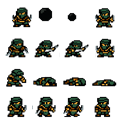
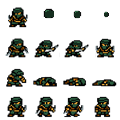
solucionado infiltrado y asesino de elite graficos en la arena, se hacen bolita y no vuelven a su estado hasta dejar de pulsar tecla de movimiento

diff --git a/morosycristianos_archon/src/coordinador/sources/dibujapersonajes.cpp b/morosycristianos_archon/src/coordinador/sources/dibujapersonajes.cpp
@@ -126,12 +126,31 @@ void dibujapersonajes::dibujar(TipoPersonaje tipo, float x, float y, float size,
         }
 
         else {
-            // Bucle frames 0-2 para andar
-            if (currentFrame < baseFrame || currentFrame >= baseFrame + 3)
-                _sprites[t][indice]->setState(0, false);
-            else 
-                _sprites[t][indice]->pause(false);//vuelve a animar
+            if (tipo == TipoPersonaje::INFILTRADO || tipo == TipoPersonaje::ASESINO_DE_ELITE) {
+                //para infiltrado /asesino de élite: se queda congelado en el frame de la bolita chiquita
+                 // Magia para el Infiltrado/Asesino
+                if (currentFrame < baseFrame || currentFrame > baseFrame + 3) {
+                    // Si viene de otro estado, empieza la animación de convertirse en humo
+                    _sprites[t][indice]->setState(baseFrame, false);
+                }
+                else if (currentFrame == baseFrame + 3) {
+                    // Si ya ha llegado a la bolita (cuarto frame), ¡lo congelamos!
+                    _sprites[t][indice]->pause(true);
+                }
+                else {
+                    // Si está en el frame 0, 1 o 2, dejamos que siga reproduciéndose hacia la bolita
+                    _sprites[t][indice]->pause(false);
+                }
 
+
+            }
+            else {
+                // Bucle frames 0-3 para andar para personajes normales
+                if (currentFrame < baseFrame || currentFrame >= baseFrame + 3)
+                    _sprites[t][indice]->setState(0, false);
+                else
+                    _sprites[t][indice]->pause(false);//vuelve a animar
+            }
         }
     }
     else {

diff --git a/morosycristianos_archon/src/coordinador/sources/dibujaarena.cpp b/morosycristianos_archon/src/coordinador/sources/dibujaarena.cpp
@@ -83,7 +83,7 @@ void DibujaArena::arena_dibujar(const Arena& arena, Batalla batalla) {
         EstadoPersonaje estado;
         if (c.recibioDanio()) estado = EstadoPersonaje::HURT;
         else if (c.atacando())     estado = EstadoPersonaje::ATTACK;
-        else                       estado = EstadoPersonaje::IDLE;
+        else      estado = EstadoPersonaje::IDLE;
 
         // Tipo de personaje según nombre
         //FALTAN PERSONAJES
@@ -248,10 +248,13 @@ void DibujaArena::arena_dibujar(const Arena& arena, Batalla batalla) {
                 }
         float size = _anchoVentana * 0.10f;
 
+        
         //convertir a 2d
         util_entrar2D(_anchoVentana, _altoVentana);
         glDisable(GL_LIGHTING);
 
+
+      
 
         //dibjar con funcion de dibujappersonajes teniendo en cuenta el nombre del personaje y el estado
         _personajes.dibujar(tipo, (float)winX, (float)winY, size,
